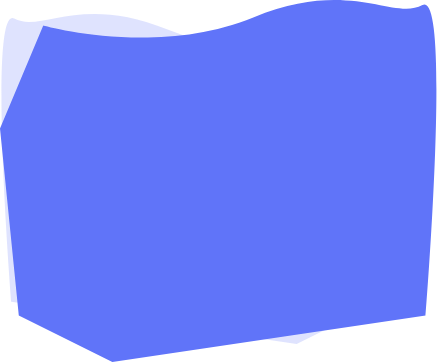
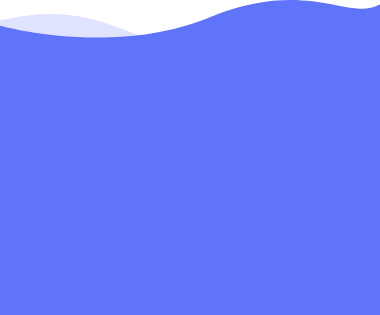
commit source code update layout + fix comment nội bộ

diff --git a/src/screens/getstarted/getstarted.view.tsx b/src/screens/getstarted/getstarted.view.tsx
@@ -5,13 +5,17 @@ import {
   StyleSheet,
   TouchableOpacity,
   Image,
-  ImageBackground
+  Dimensions
 } from 'react-native';
 import { Container } from 'native-base';
-import { heightPercentageToDP, scale, verticalScale, widthPercentageToDP } from '@shared-view';
+import { verticalScale, widthPercentageToDP } from '@shared-view';
 import AppIntroSlider from 'react-native-app-intro-slider';
-import { Assets } from '@react-navigation/stack';
-import { BACKGROUND_STARTED, BACKGROUND_STARTED_2, BACKGROUND_STARTED_3, SLIDE_STARTED, SLIDE_STARTED_2, SLIDE_STARTED_3 } from '@assets';
+import {
+  BACKGROUND_STARTED, BACKGROUND_STARTED_2, BACKGROUND_STARTED_3,
+  SLIDE_STARTED, SLIDE_STARTED_2, SLIDE_STARTED_3
+} from '@assets';
+
+const { width, height } = Dimensions.get('window');
 
 export interface Props {
   navigation?: any;
@@ -20,6 +24,7 @@ export interface Props {
 const data = [
   {
     key: 'one',
+    index: 1,
     title: 'Welcome to aking',
     text: 'Whats going to happen tomorrow?',
     image: SLIDE_STARTED,
@@ -27,6 +32,7 @@ const data = [
   },
   {
     key: 'two',
+    index: 2,
     title: 'Work happens',
     text: 'Get notified when work happens.',
     image: SLIDE_STARTED_2,
@@ -34,6 +40,7 @@ const data = [
   },
   {
     key: 'three',
+    index: 3,
     title: 'Tasks and assign',
     text: 'Task and assign them to colleagues.',
     image: SLIDE_STARTED_3,
@@ -44,50 +51,53 @@ const data = [
 type Item = typeof data[0];
 
 export class GetStartedComponent extends Component<Props> {
+  slider: any;
+
   constructor(props: Props) {
     super(props);
   }
 
-  _renderItem = ({ item }: {item : Item}) => {
+  _renderItem = ({ item }: { item: Item }) => {
     return (
       <Container style={styles.container}>
         <View style={styles.slide}>
-          <Image source={item.image} />
+          <Image source={item.image} resizeMode={'contain'} />
           <Text style={styles.title}>{item.title}</Text>
           <Text style={styles.text}>{item.text}</Text>
         </View>
         <View style={styles.background}>
-          <ImageBackground source={item.background} style={styles.backgroundImage}>
-            <TouchableOpacity onPress={() => {this.props.navigation.navigate('')}} style={styles.gs}>
+          <Image source={item.background} style={styles.backgroundImage} resizeMode={'stretch'} />
+          <View>
+            <TouchableOpacity activeOpacity={1} onPress={() => item.index != 3 ? this.slider?.goToSlide(item.index) : {}} style={styles.gs}>
               <Text style={styles.textGs}>Get Started</Text>
             </TouchableOpacity>
-            <TouchableOpacity onPress={() => {this.props.navigation.navigate('')}} style={styles.lg}>
+            <TouchableOpacity activeOpacity={1} onPress={() => { this.props.navigation.navigate('Todo') }} style={styles.lg}>
               <Text style={styles.textLg}>Log In</Text>
             </TouchableOpacity>
-          </ImageBackground>
+          </View>
         </View>
       </Container>
     );
   }
 
   render() {
-      return (
-        <AppIntroSlider 
-          renderItem={this._renderItem} 
-          data={data} 
-          showNextButton={false}
-          dotStyle={styles.dot}
-          activeDotStyle={styles.activeDot}
-          showDoneButton={false}
-        />
-      );
-    }
+    return (
+      <AppIntroSlider
+        ref={(ref) => (this.slider = ref)}
+        renderItem={this._renderItem}
+        data={data}
+        showNextButton={false}
+        dotStyle={styles.dot}
+        activeDotStyle={styles.activeDot}
+        showDoneButton={false}
+      />
+    );
   }
+}
 
 const styles = StyleSheet.create({
   container: {
     flex: 1,
-    padding: scale(10),
     justifyContent: 'center',
   },
   slide: {
@@ -97,39 +107,46 @@ const styles = StyleSheet.create({
   },
   text: {
     textAlign: 'center',
-    margin: 10
+    fontSize: verticalScale(16),
+    color: '#313131',
+    opacity: 0.8,
+    marginVertical: verticalScale(5)
   },
   title: {
     textAlign: 'center',
-    margin: 5
+    fontSize: verticalScale(22),
+    color: '#313131',
+    marginTop: verticalScale(20),
   },
   background: {
-    flex: 1
-  },
-  backgroundImage: { 
     flex: 1,
-    scaleX: scale(1),
-    scaleY: scale(1),
-    marginBottom: -200,
+  },
+  backgroundImage: {
+    ...StyleSheet.absoluteFillObject,
+    width: widthPercentageToDP('100')
   },
   dot: {
-    marginBottom: scale(380)
+    bottom: height / 3.5,
+    backgroundColor: '#979797',
   },
   activeDot: {
-    marginBottom: scale(380)
+    bottom: height / 3.5,
+    backgroundColor: '#000000'
   },
   lg: {
     alignItems: 'center',
   },
   textLg: {
-  }, 
+    color: '#000000'
+  },
   gs: {
     alignItems: 'center',
     justifyContent: 'center',
-    height: 45, 
+    height: verticalScale(48),
     marginTop: 80,
     margin: 35,
-    borderRadius: 5
+    borderRadius: 5,
+    backgroundColor: '#FFFFFF'
   },
   textGs: {
   }

diff --git a/src/shared-view/dimensions.ts b/src/shared-view/dimensions.ts
@@ -3,8 +3,8 @@ const { width, height } = Dimensions.get('window');
 const [shortDimension, longDimension] = width < height ? [width, height] : [height, width];
 
 //Guideline sizes are based on standard ~5" screen mobile device
-const guidelineBaseWidth = 350;
-const guidelineBaseHeight = 680;
+const guidelineBaseWidth = 375;
+const guidelineBaseHeight = 812;
 
 // Will return linear scaled result of the provided size, based on your device's screen width.
 const scale = (size: number) => shortDimension / guidelineBaseWidth * size;

diff --git a/src/navigation/RootNavigator.tsx b/src/navigation/RootNavigator.tsx
@@ -10,6 +10,11 @@ export const RootNavigator = () => {
     <NavigationContainer>
       <Stack.Navigator>
         <Stack.Screen
+          name="GetStarted"
+          component={GetStartedContainer}
+          options={{ title: 'GetStarted', headerShown: false }}
+        />
+        <Stack.Screen
           name="Todo"
           component={TodoContainer}
           options={{ title: 'Todo', headerShown: false }}

diff --git a/src/screens/getstarted/getstarted.container.ts b/src/screens/getstarted/getstarted.container.ts
@@ -1,16 +1,13 @@
 import { connect } from 'react-redux';
 import { GetStartedComponent } from './getstarted.view';
-import { getTodoList } from '@shared-state';
 
 export const GetStartedContainer = connect(
   (state: any) => {
     return {
-
     }
   },
   (dispatch: any) => {
     return {
-      
-      }
     }
+  }
 )(GetStartedComponent);
